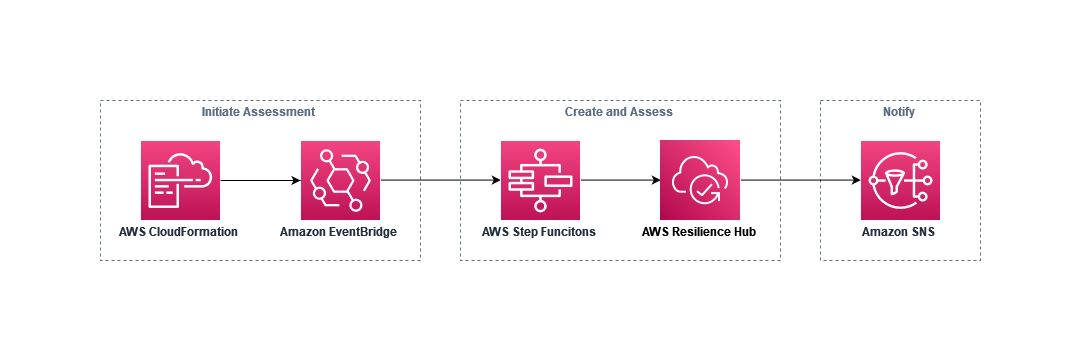
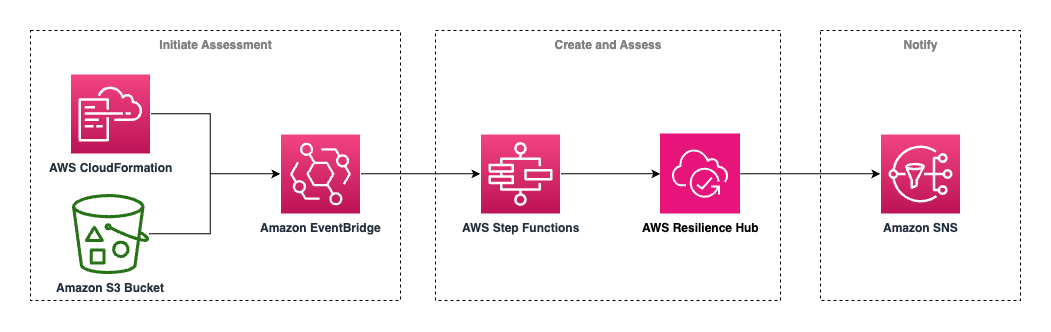
Updated readme to include TF instructions

diff --git a/cloudformation-eventbridge-integration/README.md b/cloudformation-eventbridge-integration/README.md
@@ -16,7 +16,7 @@ The solution deploys five resiliency policies in ARH to check applications again
 2. Deploy `arh_cfn_eb_template.yaml`
 
 ## How to use Solution
-### Using CloudFormation stacks
+#### Using CloudFormation stacks
 When deploying or updating applications to AWS using CloudFormation, add the two following tags to the CloudFormation. This will result in automatic creation or update to existing applications in ARH which notifies the application owner of any detected drift or assessment failures.
 
 Steps:
@@ -29,30 +29,40 @@ Steps:
 
 3. Once the template is deployed, the solution will automatically handle the create/update/delete process for resources in ARH.
 
-### Using Terraform state files store in S3 bucket
+#### Using Terraform state files store in S3 bucket
 When uploading Terraform state file to AWS S3 bucket, add the two following tags to the CloudFormation. This will result in automatic creation or update to existing applications in ARH which notifies the application owner of any detected drift or assessment failures.
 
 Steps:
-1. Upload Terraform state file to AWS S3 bucket
-2. During the object upload, add the following tags: 
+1. Turn on Amazon EventBridge notifications on the Amazon S3 bucket
+![Enable EventBridge Notifications Image](eventbridge-on.png)
+2. Upload Terraform state file to Amazon S3 bucket
+3. During the object upload, add the following tags: 
     1. **(Required)**`app_criticality`, value: STRING from a pre-formatted list from ARH tiers: Valid Values: `MissionCritical | Critical | Important | CoreServices | NonCritical`
     2. **(Optional)** `app_owner`, value: ARN of valid SNS Topic that will receive the resilience assessment notifications
    
-![Add Tags Image](add-tag-s3.png)
+![Add Tags To S3 Image](add-tags-s3.png)
 
 3. Once the object is uploaded, the solution will automatically handle the create/update/delete process for resources in ARH.
-
 
 ## Reference Architecture
 #### AWS Architecture
 ![Architecture Image](architecture.png)
 #### AWS Step Functions Workflow
-![Step Functions Workflow](step-functions-workflow(simple).png)
-The above Step Function branches based off of the status of the CloudFormation stack:
+![Step Functions Workflow](step-functions-workflow(withTF).png)
+For CloudFormation stack, the above Step Function branches based off of the status of the stack:
 >CREATE_COMPLETE --> Create a new application in ARH
 >DELETE_COMPLETE --> Delete the application in ARH
 >UPDATE_COMPLETE --> Create a new version for the application in ARH and re-import input sources. If application does not exist in ARH then create a new application.
 
+For Terraform state file stored in S3 bucket, the Step Function branches off off the object event:
+> PutObject --> Create a new version for the application in ARH and re-import input sources. If application does not exist in ARH then create a new application.
+> DeleteObject --> Delete the application in ARH
+
+
 ## Important Notes
+#### CloudFormation Stacks
 - Deleting a template that was deployed with the tag will also result in the application created in ARH being deleted as well.
 - To import existing stacks into ARH, update the stack and add the `app_criticality` tag.
+#### Terraform state file in S3 bucket
+- Deleting an object with the `app_criticality` tag will also result in the application created in ARH being deleted as well.
+- To import existing Terraform state files into ARH, re-upload the object and add the `app_criticality` tag.
